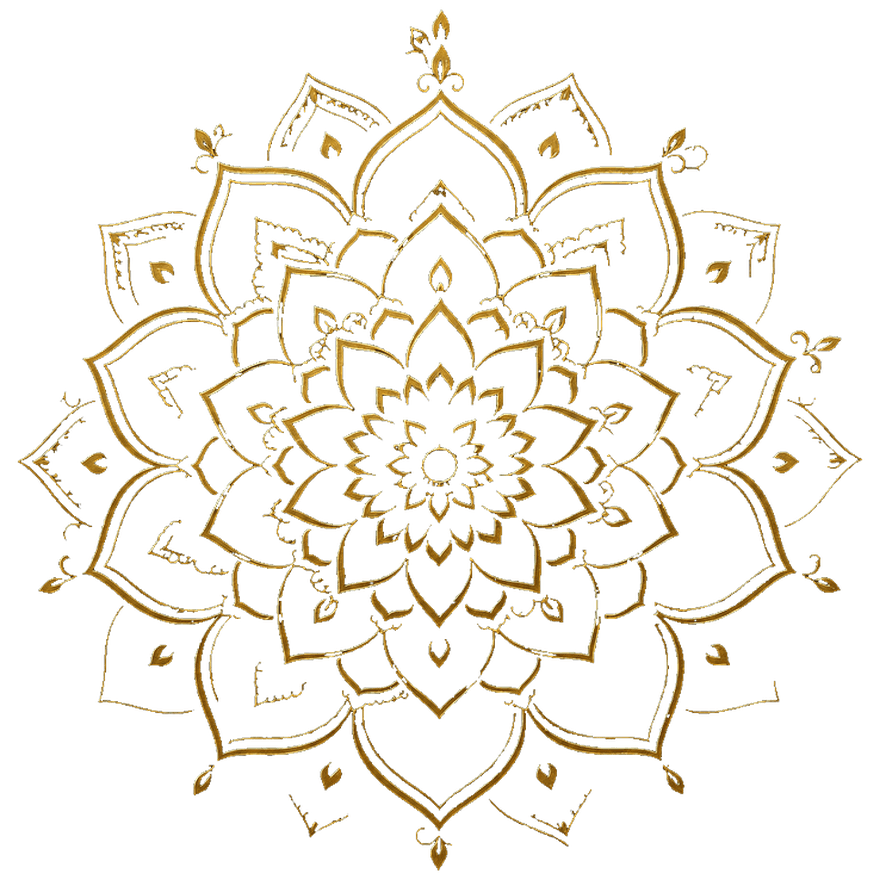
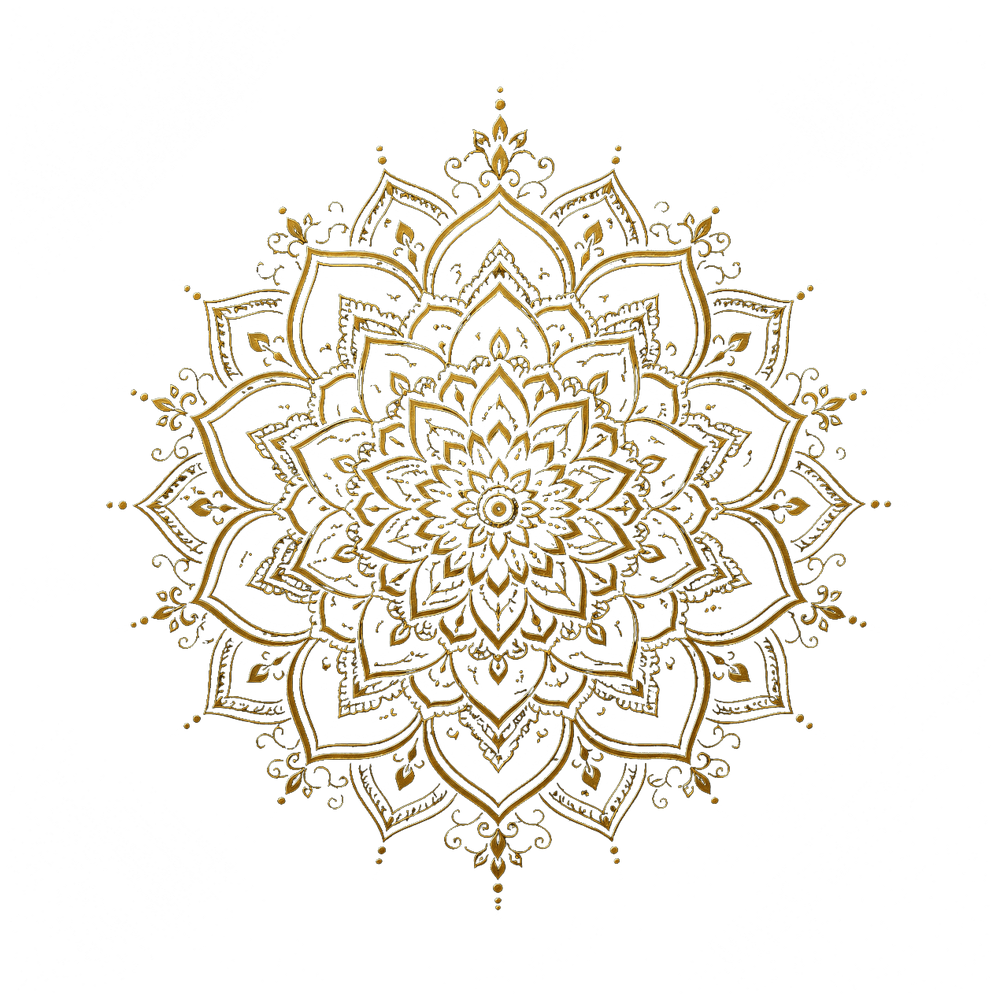
Hero mandala: cleaner full-gold re-extraction + frame it whole; fix "p" clip
- Re-extract mandala-gold.png with a gentler, fuller key (goldness>8 OR bright,
  soft alpha ramp, keep the filled body + dot rings; only drop <60px noise) so
  it's the solid ornate mandala from the source, not a thin/distressed outline.
- Frame it mostly-whole on the hero: pull in from -right-32 -> -right-8/-4 and
  size 46rem -> 38/42rem so the full mandala reads instead of a hard chop. Still
  spins (paused off-screen, reduced-motion safe), opacity 0.7.
- Fix the clipped "p" in italic "takes shape": add vertical padding + matching
  negative margin + leading-[1.15] so the descender renders fully (the earlier
  fix only padded horizontally).

diff --git a/components/sections/hero.tsx b/components/sections/hero.tsx
@@ -57,18 +57,19 @@ export function Hero() {
       <ParallaxLayer
         speed={0.08}
         max={16}
-        className="pointer-events-none absolute -right-32 top-1/2 hidden md:block"
+        className="pointer-events-none absolute -right-8 top-1/2 hidden md:block lg:-right-4"
       >
         <div className="-translate-y-1/2">
           {/* The real detailed gold mandala (extracted onto transparency),
-              slowly spinning. Subtle opacity so it's a rich ornament, not
+              slowly spinning. Pulled in from the edge so it reads (mostly) whole
+              rather than hard-cropped. Subtle opacity — a rich ornament, not
               overpowering. */}
           {/* eslint-disable-next-line @next/next/no-img-element */}
           <img
             src="/brand/mandala-gold.png"
             alt=""
             aria-hidden="true"
-            className="ambient-spin h-[46rem] w-[46rem] opacity-70"
+            className="ambient-spin h-[38rem] w-[38rem] opacity-70 lg:h-[42rem] lg:w-[42rem]"
             style={{ transformOrigin: "center" }}
           />
         </div>
@@ -90,7 +91,7 @@ export function Hero() {
                 italic glyphs' overhang isn't clipped by bg-clip-text, without
                 shifting the layout. */}
             <span
-              className="text-shimmer -mx-[0.12em] inline-block bg-clip-text px-[0.12em] italic text-transparent"
+              className="text-shimmer -mx-[0.12em] -my-[0.12em] inline-block bg-clip-text px-[0.12em] py-[0.12em] align-baseline italic leading-[1.15] text-transparent"
               style={{
                 backgroundImage:
                   "linear-gradient(100deg, var(--gold-500) 0%, var(--blush-300) 20%, var(--gold-400) 40%, var(--gold-200) 50%, var(--gold-400) 60%, var(--blush-300) 80%, var(--gold-500) 100%)",
